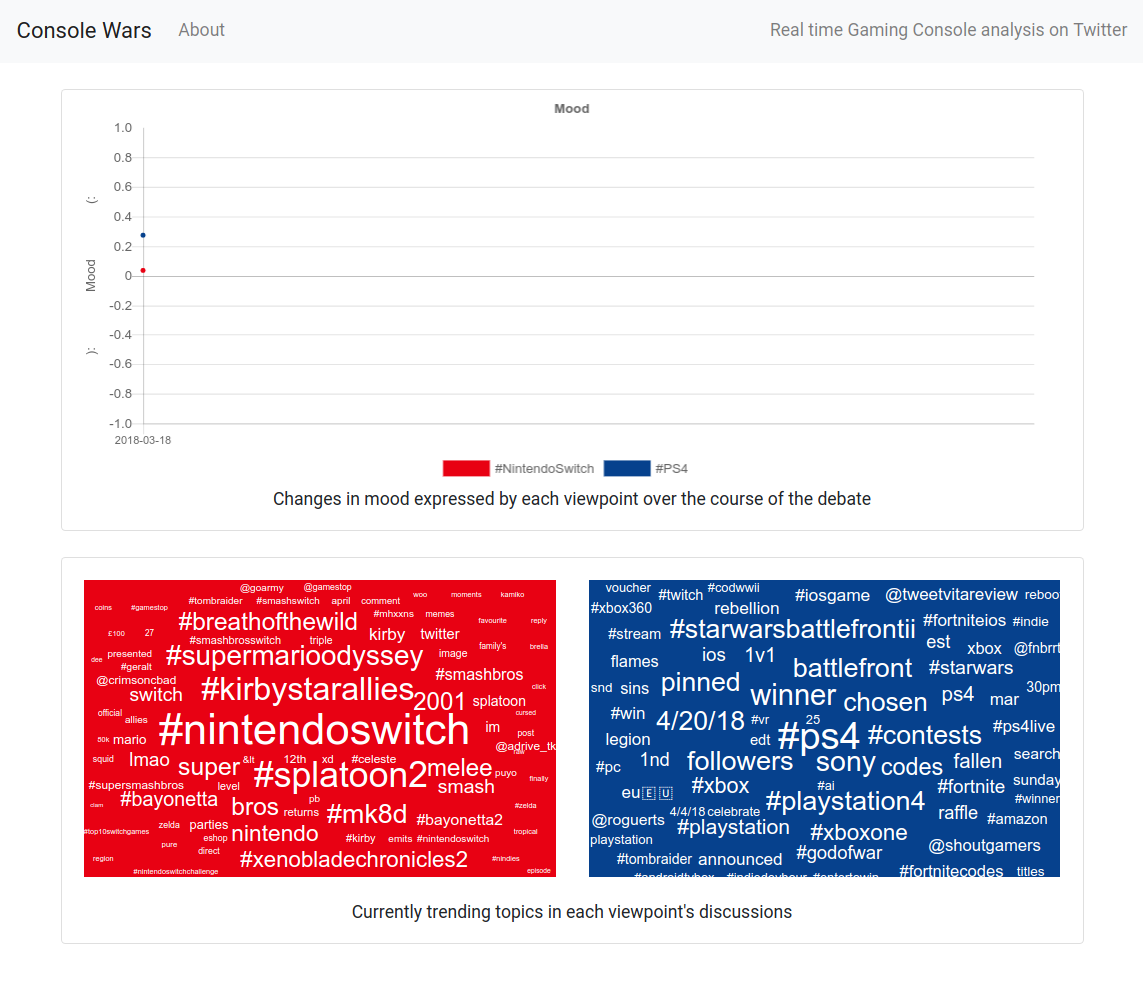
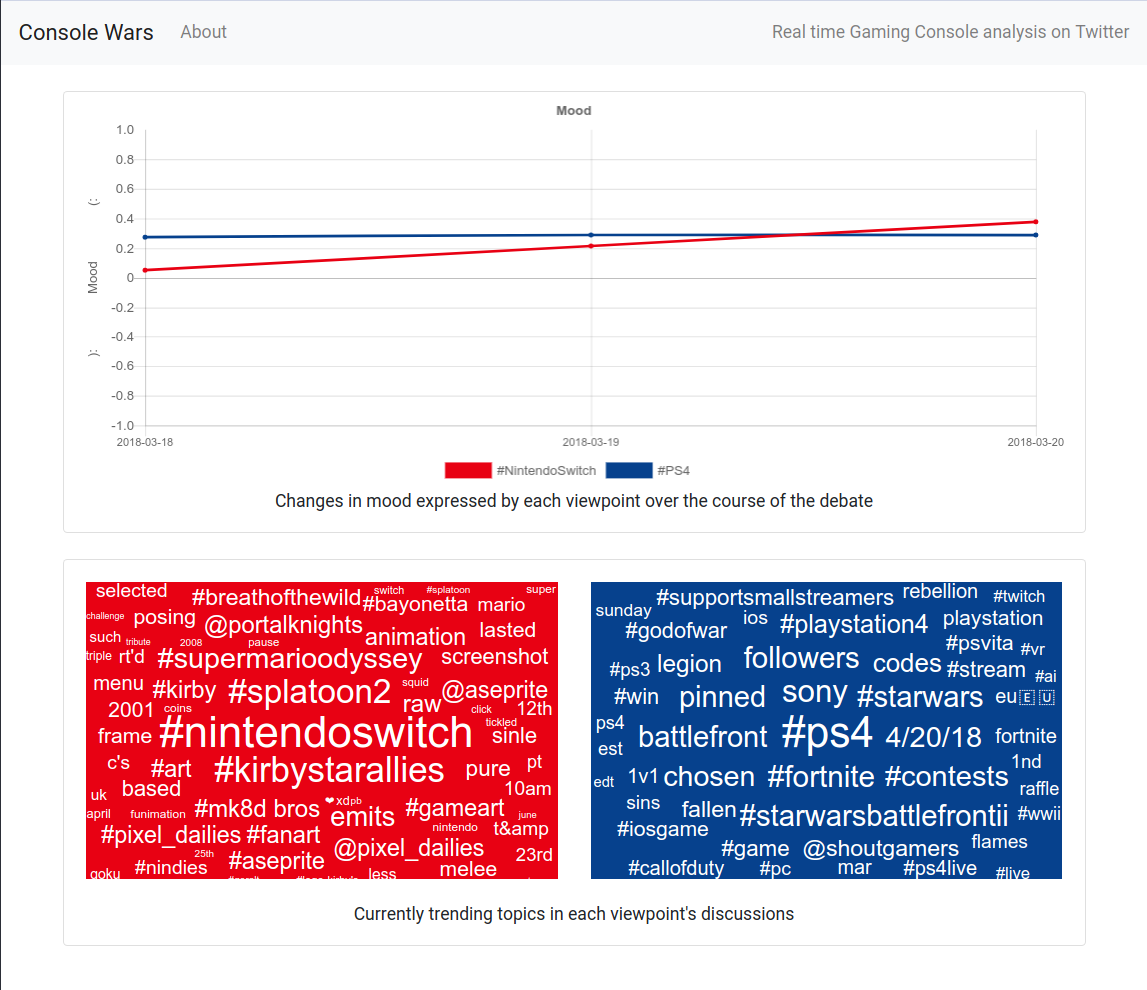
Adds new results to Nintendo Switch vs PS4 section

diff --git a/docs/report/results.md b/docs/report/results.md
@@ -132,12 +132,12 @@ Although all the above results are specific to the 8th amendment referendum deba
         "Mountain Time (US & Canada)", "Pacific Time (US & Canada)"]
 }
 ````
-This specifies all the details that are specific to the topic being analysed. As can be seen from the configuration file, the pipeline was set up to analyse Tweets containing either #NintendoSwitch or #PS4 from North America in English. After leaving this pipeline running for a few hours, this is what the results page looked like:
+This specifies all the details that are specific to the topic being analysed. As can be seen from the configuration file, the pipeline was set up to analyse Tweets containing either #NintendoSwitch or #PS4 from North America in English. After running the pipeline for a few hours over 3 consecutive days, this is what the results page looked like:
 
 ![Nintendo Switch vs PlayStation 4](images/switch-vs-ps4.png)
-#### Figure X: This shows the web frontend of the pipeline after collecting data on gaming console discussion from North America over a few hours.
+#### Figure X: This shows the web frontend of the pipeline after collecting data on gaming console discussion from North America intermittently over the course of 3 consecutive days.
 
-With only a few hours of data collected, it's clearly not enough to draw any results from. It does show however, that the pipeline can be pointed at another target and work perfectly. The sentiment chart looks broken but that's because it only contains a single point of data, which can be seen on the far left of the chart. Had I run the pipeline over 2 or more days, a proper graph of sentiment level changes would be seen. The word clouds both work perfectly in this new domain, although again more data would result in a better representation of the state of the debate. The #NintendoSwitch word cloud (in red) in particular looks sparse around the edges due to a lack of data.
+With only a few hours of data collected overall, it's clearly not enough to draw any results from. It does show however, that the pipeline can be pointed at another target and work perfectly.
 
 [1] - [Twitter Demographics](https://sproutsocial.com/insights/new-social-media-demographics/#twitter)
 
